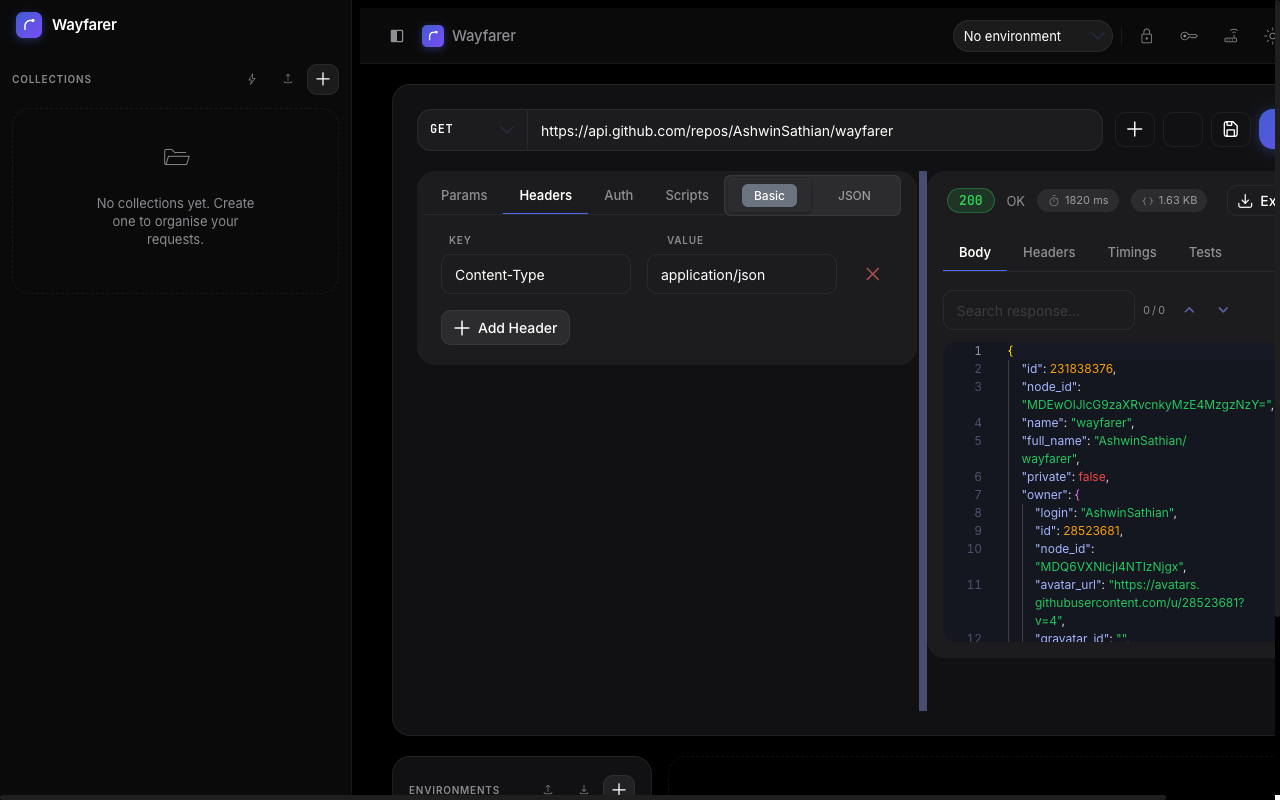
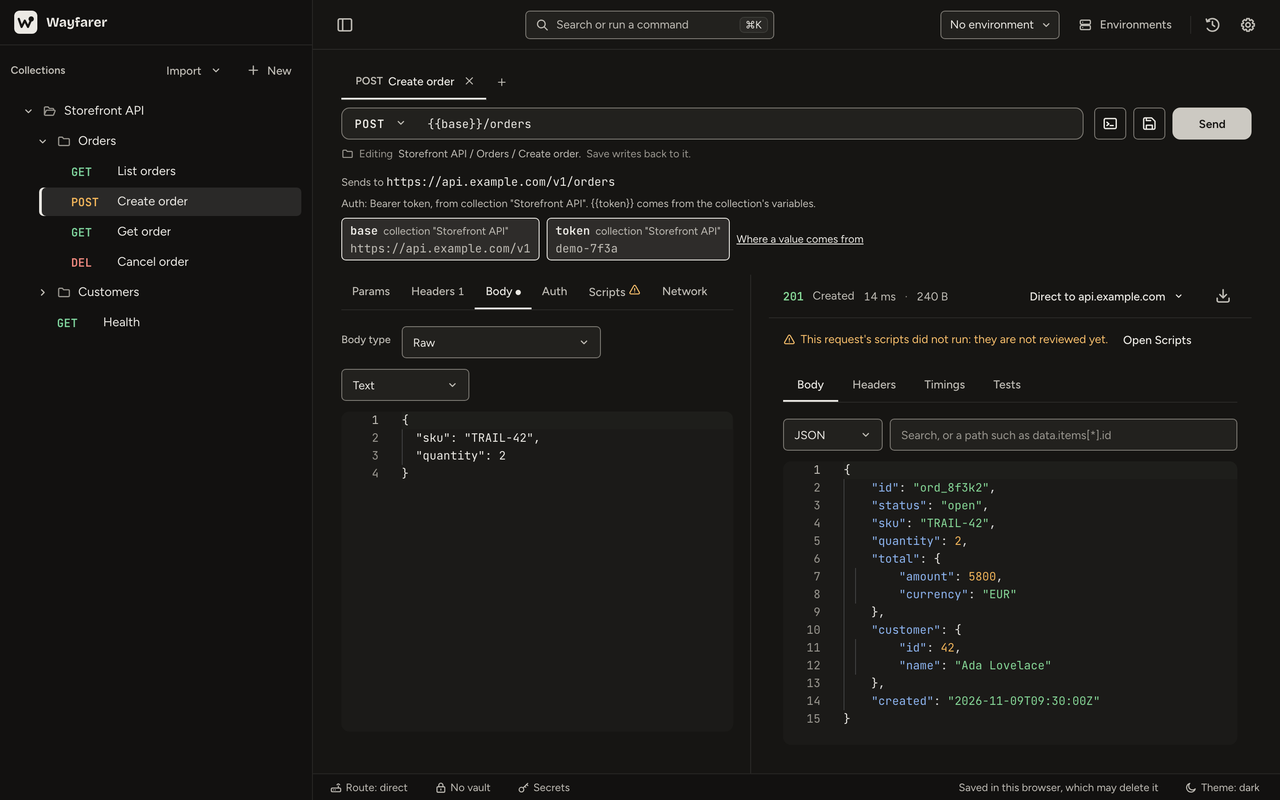
content: Wayfarer case study brought up to date, and a post for its public release
The entry said Wayfarer was an Angular, RxJS and IndexedDB app with a vault
and a renamed history. It is now version 3.4.0 with a claims ledger, a Local
Bridge, a CLI and a share link, so the description, facts, highlights, case
study and decision record are rewritten from the repository (the audit's
count is 71 of 75 closed, not 47 of 50; RxJS is not used; the decision
record is the reworded C-012). New hero screenshot from the live app, the
llms.txt entry and writing list, the home teaser, and the post
"What a browser tab won't let an API client do", linked from the project.

diff --git a/src/app/data/projects.ts b/src/app/data/projects.ts
@@ -258,64 +258,77 @@ export const PROJECTS: Project[] = [
     name: "Wayfarer",
     featured: true,
     category: "Developer tool",
-    tagline: "A local-first API client with no account and a client-side encrypted vault for secrets.",
+    tagline: "A local-first API client that opens in a browser tab: no account, an encrypted vault for secrets, and a test behind every claim it makes.",
     description: [
-      "Wayfarer is an API testing client (collections, environments, pre/post-request scripts, a response viewer) that runs entirely in the browser with no account and no backend. Everything lives in IndexedDB on your machine. Secrets get their own encrypted vault: PBKDF2-SHA-256 at 600,000 iterations wraps a random AES-GCM-256 key that is held in memory only, so only ciphertext ever touches storage. Pre-request and post-response scripts run in QuickJS, a JavaScript engine compiled to WebAssembly, in their own worker, so the browser never evaluates a script’s text.",
-      "It was renamed from API Sandbox to Wayfarer partway through its life. The app, the local-first storage model, and the MIT license stayed the same. There’s also an optional local-bridge, a small Node CLI for CORS/intranet relay when a request needs to reach somewhere the browser can’t. No update, acquisition, or pricing change can gate access to data you already own.",
+      "Wayfarer is an API client that opens in a browser tab. There is no install and no account. Collections, environments and history live in IndexedDB, and a request goes from the page to the host you typed. It imports Postman, Insomnia, OpenAPI, HAR and cURL, runs Postman-style scripts in QuickJS compiled to WebAssembly, does GraphQL, WebSockets and event streams, and runs a collection from the command line with the same engine (wayfarer-cli on npm). Secrets go in a vault: PBKDF2-SHA-256 at 600,000 iterations wraps a random AES-GCM-256 key that is held in memory only, so only ciphertext is stored and a reload locks it.",
+      "A page can’t do everything a desktop client can. CORS, forbidden headers like Cookie and Origin, mixed content and the missing timings of cross-origin responses all apply, so before a request goes the composer says what the browser will do to it. For what a page can’t do there is an optional Local Bridge (wayfarer-bridge on npm, no dependencies, listening on 127.0.0.1 only, paired with a one-time code) that sends the request from your machine. A collection can be shared as a link that carries it encrypted after the #, which a browser never sends to a server.",
+      "Every claim the project makes is a row in a public ledger, 94 of them at version 3.4.0, and each row names the tests that prove it. The repository’s first commit is from January 2020, an Angular 8 project called api-sandbox. It was renamed Wayfarer in July 2026 with the storage model and the MIT license unchanged, and a September 2026 audit of its documentation against its code produced 75 issues, 71 of them closed.",
     ],
-    stack: ["Angular 22", "IndexedDB", "QuickJS (WebAssembly)", "Monaco Editor", "RxJS"],
+    stack: ["Angular 22", "IndexedDB", "QuickJS (WebAssembly)", "Monaco Editor", "Astro 7", "Playwright"],
     facts: [
-      { label: "Persistence", value: "100% client-side: IndexedDB, no backend" },
+      { label: "Release", value: "3.4.0, November 2026, MIT. wayfarer-cli 2.2.0 and wayfarer-bridge 3.0.2 on npm" },
+      { label: "Persistence", value: "Client-side: IndexedDB, no backend of its own" },
       { label: "Secrets vault", value: "PBKDF2 (600k) wraps an AES-GCM-256 key, held in memory only" },
-      { label: "License", value: "MIT" },
+      { label: "Checks", value: "94 public claims, each tied to tests that run in Chromium, Firefox and WebKit" },
     ],
     highlights: [
       {
         title: "Client-side encrypted secrets vault",
         detail:
-          "PBKDF2-SHA-256 at 600,000 iterations wraps a random AES-GCM-256 key held only in memory. IndexedDB never sees anything but ciphertext.",
+          "PBKDF2-SHA-256 at 600,000 iterations wraps a random AES-GCM-256 key held only in memory, and a reload locks the vault. IndexedDB holds ciphertext. History, exports and shared files carry a mask where a secret was, and a reference to a vault secret is refused before it can reach the network.",
       },
       {
-        title: "Audit findings tracked as issues",
+        title: "Every claim has a test",
         detail:
-          "A September 2026 audit found gaps between the docs and the code. Each became an issue labeled audit-2026-09, and 47 of the 50 are closed. Scripts came back in 2.1.0 on a QuickJS sandbox that runs under the production Content-Security-Policy.",
+          "The ledger has 94 rows. Each names the documents that say it and the tests that prove it, and a check fails if a row has no test or names one that doesn’t exist. A claim test is never retried: one that passes on the second try hasn’t shown what it claims. Since 3.4.0 a skipped test no longer counts as one.",
+      },
+      {
+        title: "Says what the browser will do, before the send",
+        detail:
+          "A page can’t send a Cookie header, can’t read most response headers across origins and gets no phase timings unless the server sends Timing-Allow-Origin. The composer says what the browser will do to a request before it goes, and a network failure shows the real error. An early version’s service worker answered with a made-up 504.",
+      },
+      {
+        title: "A bridge for what a page can’t do",
+        detail:
+          "wayfarer-bridge relays a request from your machine, where CORS doesn’t apply. It listens on 127.0.0.1 only, relays only for an allowed origin that presents its token, and issues the token against a pairing code that works once. The route Auto sends from the page and offers the bridge only after the page got no answer. A response is never sent twice.",
+      },
+      {
+        title: "Audited, then reviewed again before the announcement",
+        detail:
+          "The September 2026 audit compared the documentation with the code and left 75 issues labeled audit-2026-09, among them scripts blocked by the production CSP and an “encrypted at rest” claim that overstated. 71 are closed, and scripts came back in 2.1.0 on a sandbox that runs under that CSP. In November a walkthrough of the live app as a first-time visitor and a review of the whole codebase went into 3.2.4 to 3.4.0: a Timings phase that showed 593 seconds for a one-second request, a phone told to run a terminal command, and a bridge timeout that cut requests off at 30 seconds.",
       },
       {
         title: "Nothing to rug-pull",
         detail:
-          "There is no account, hosted backend, or pricing tier that can change under you. HAR 1.2 export lets you take your data out in a standard format at any time.",
-      },
-      {
-        title: "Renamed from API Sandbox",
-        detail:
-          "API Sandbox became Wayfarer with the same storage model and license carried forward.",
+          "There is no account, hosted backend, or pricing tier that can change under you. Collections export as Postman v2.1 or Wayfarer files, an exchange as HAR 1.2, and the whole workspace backs up to one file.",
       },
     ],
     links: {
       live: "https://wayfarer.ashwinsathian.com",
       github: "https://github.com/AshwinSathian/wayfarer",
+      npm: "https://www.npmjs.com/package/wayfarer-cli",
     },
     media: {
       kind: "screenshot",
       src: "/projects/wayfarer/hero.png",
       width: 1280,
       height: 800,
-      alt: "Wayfarer’s request builder: headers editor on the left, a syntax-highlighted JSON response with status and timing on the right.",
+      alt: "Wayfarer with a Postman collection imported: the Storefront API folders on the left, a POST request built from the collection’s variables, and the JSON answer, 201 Created, on the right, with a notice that the imported scripts have not been reviewed yet.",
     },
     repo: { owner: "AshwinSathian", repo: "wayfarer" },
     decisionRecord: {
-      date: "2026-07",
-      before: "API Sandbox",
-      after: "Wayfarer",
-      why: "The new name fit the product better. The local-first storage model and the MIT license carried over, and the rename shipped as v1.0.0 under the new name.",
+      date: "2026-11",
+      before: "The ledger said the production page “loads with no script the app didn’t ship (0 CSP violations)”",
+      after: "It says the page runs no script but the app’s, and the CSP blocks any other, also one the host adds",
+      why: "The Cloudflare zone that serves the site injects a bot-detection script. The CSP blocks it, and a block is a violation, so “0 violations” was false, and the check for it was skipped against production with a warning, so nothing was testing the claim. The new wording says what holds, with a test that fails on any script fetched from another origin and on any violation that isn’t a blocked script. The strict zero-violations test stays, skipped on production until the zone stops injecting. Reworded in 3.2.5 on 9 November 2026.",
     },
     caseStudy: {
       problem:
-        "API clients that store your secrets ask you to trust their account system and their pricing page with the credentials you paste into them.",
+        "API clients that keep your secrets ask you to trust their account system and their pricing page with the credentials you paste into them. A client that runs in a browser tab needs neither, but the tab can’t do everything a desktop client can, and a client that doesn’t say so reports wrong things.",
       decision:
-        "Built Wayfarer to run entirely client-side: collections and requests live in IndexedDB, and secrets get their own vault where PBKDF2-SHA-256 (600,000 iterations) wraps an AES-GCM-256 key held only in memory, so IndexedDB never sees anything but ciphertext. Renamed from API Sandbox to Wayfarer mid-life, with the storage model and license carried forward, and shipped as v1.0.0 under the new name.",
+        "Built Wayfarer to run in the tab: collections live in IndexedDB, secrets go in a vault whose key exists only in memory, and the composer says what the browser will do to a request before it is sent. What a page can’t do goes to an optional Local Bridge on the user’s machine, paired by a code. Made every public claim a row in a ledger with the tests that prove it, run in three browser engines, after an audit of the project’s own documentation found where it said more than the code did.",
       outcome:
-        "There is no account or backend, so nothing can gate access to your own data. Scripts, switched off after the audit, run again in every build on a QuickJS sandbox.",
+        "Version 3.4.0 is current, with wayfarer-cli 2.2.0 and wayfarer-bridge 3.0.2 on npm. The ledger has 94 claims, and one of them was false while the host injected its own script, until it was reworded on 9 November 2026. Of the audit’s 75 issues, 71 are closed. What isn’t built is written down: no gRPC, no Git-backed collections, no live shared workspace.",
     },
   },
   {

diff --git a/src/app/data/home.ts b/src/app/data/home.ts
@@ -48,7 +48,7 @@ export const STORIES: Record<string, string> = {
   brnr:
     "Private messengers often still keep accounts or history on a server somewhere. BRNR keeps neither: a code starts a chat between two people, messages are end-to-end encrypted, and every one expires after 24 hours.",
   wayfarer:
-    "API clients ask you to trust their accounts with the secrets you paste in. Wayfarer runs in your browser tab with no account at all, and keeps secrets in a vault encrypted on your machine.",
+    "API clients ask you to trust their accounts with the secrets you paste in. Wayfarer opens in a browser tab with no account, keeps secrets in a vault encrypted on your machine, and says what the browser will do to a request before you send it.",
   "ngx-runtime-i18n":
     "Angular’s built-in i18n needs a separate build per language. This library swaps languages at runtime behind a signal, without breaking server rendering.",
   typester:

diff --git a/src/app/data/related.ts b/src/app/data/related.ts
@@ -7,6 +7,7 @@ export const PROJECT_POSTS: Record<string, string[]> = {
     "why-ngx-runtime-i18n-treats-the-active-language-as-a-signal-not-an-observable",
   ],
   "better-auth-mongoose": ["why-better-auths-mongodb-adapter-cant-populate-a-mongoose-ref"],
+  wayfarer: ["what-a-browser-tab-wont-let-an-api-client-do"],
   "humanize-writing-skill": [
     "the-ai-tells-moved-my-tool-for-avoiding-them-hadnt",
     "why-humanize-my-writing-tools-dont-work",

diff --git a/src/content/writing/what-a-browser-tab-wont-let-an-api-client-do.md b/src/content/writing/what-a-browser-tab-wont-let-an-api-client-do.md
@@ -1,0 +1,61 @@
+---
+title: "What a browser tab won't let an API client do"
+date: "2026-11-10"
+description: "Wayfarer is an API client that opens in a browser tab. What the tab takes away, how the app says so before you send, and two ways its own claims and checks turned out wrong."
+tags: ["api", "cors", "browser", "angular", "buildinpublic"]
+---
+
+Wayfarer is an API client that opens in a browser tab. There's nothing to install and no account to make. Collections, environments and history live in the browser's IndexedDB, and apart from loading the app, the only traffic is the request you compose, sent to the host you typed (plus the token request, if you use OAuth 2.0). I announced it on 10 November 2026. The current version is 3.4.0, and it's MIT-licensed.
+
+It also imports Postman, Insomnia, OpenAPI, HAR and cURL, runs Postman-style scripts in a QuickJS sandbox, keeps secrets in an encrypted vault, and does GraphQL, WebSockets and event streams. The README has the full list. This post is about the other side of living in a tab, which is what a page isn't allowed to do.
+
+## What the tab takes away
+
+A desktop client sends requests from a process that can do almost anything. A page sends them through the browser, and the browser decides what goes out:
+
+- A response from another origin reaches the page only if the server allows it (CORS), and a request that isn't "simple" is first asked about with a preflight.
+- `Cookie`, `Host`, `Origin`, `Connection` and the other forbidden header names are dropped, and a page can't read the browser's own cookies.
+- An `http://` address is blocked from an `https://` page.
+- From another origin, a page can read only the CORS-safelisted response headers and the ones the server exposes.
+- Phase timings (DNS, connect, first byte) exist only if the server sends `Timing-Allow-Origin`.
+- Redirects are followed without being shown, TLS can't be relaxed, and no proxy can be set.
+
+A desktop client is under none of these rules, so its documentation rarely mentions them. The nearest web peer does mention them - Hoppscotch's documentation says its web app needs nothing for an API that allows CORS, and otherwise an agent, an extension or a proxy (read on 4 November 2026; the [comparison page](https://wayfarer.ashwinsathian.com/compare/hoppscotch/) links it).
+
+## Say what the browser will do, before the send
+
+Before a request goes, Wayfarer's composer says what the browser will do to it (claim C-049). It lists the headers the browser will drop, says whether it will ask the server first and why, and warns when an `http://` address will be blocked. For a PUT with an Authorization header it reads: "The browser asks the server first, with an OPTIONS request, because of the method PUT, the header Authorization. The request is sent only if the server's answer allows it."
+
+After a failure the app can say less than you'd like, and it says that too: "The request got no response. The browser does not say why: the name may not resolve, the server may have refused the connection, or it does not allow requests from this page (CORS). Send it through the Local Bridge to see which." A page can't tell those cases apart, so the message doesn't pick one.
+
+An early version did the opposite. Its service worker answered a failed network request with a 504, which is a gateway timeout and blames a server for something the page couldn't attribute. That was finding F06 in the September audit. Claim C-010 now says a network failure shows the real error, never a made-up 504.
+
+## When the page can't, a program on your machine can
+
+The Local Bridge is `npx wayfarer-bridge`, a small Node program with no dependencies. It listens on 127.0.0.1, refuses a request whose Host isn't loopback, and relays only for an allowed origin that presents its token. The token comes from a pairing code the bridge prints when it starts. The code works once, and three wrong ones in a row lock pairing for 60 seconds, the right one included. Through the bridge, `Cookie`, `Host` and `Origin` go as written, redirects are followed hop by hop and listed, and an `http://` address works.
+
+The page keeps the say over where a request goes. The route called Auto sends from the page first. Only after the page got no answer does it consider the bridge, and then it goes at once for a GET, HEAD or OPTIONS or when a preflight was needed, and asks you first for anything else. A response is never sent twice (C-064).
+
+## The Timings tab was making up a number
+
+The browser's Resource Timing API gives a page the phases of a request: DNS, connect, TLS, time to first byte, content. For a response from another origin whose server sends no `Timing-Allow-Origin`, the browser sets those phase times to zero and keeps only when the request started and ended. Wayfarer's Timings tab computed the Content phase as the end of the response minus its start. With the start zeroed, that was the end minus zero, which is the time since the page loaded.
+
+On a fresh page, a request of 750 ms showed a Content phase of 1.9 seconds. Ten minutes after the page loaded, a request of about one second showed a Content phase of 593 seconds. Claim C-023 already said phase timings are withheld without the header, and its test checked four phases, not Content. A walkthrough of the live app as a first-time visitor found it on 9 November, the day before the announcement.
+
+Every phase goes through one function that subtracts two times - so the fix is a condition in it: a time of zero is withheld, not the start of the page. The new unit test failed first, for the reason reported, and C-023's end-to-end test now checks that Content isn't drawn. The fix shipped in 3.2.4.
+
+## Every claim has a test, and the ledger failed in two ways
+
+Wayfarer's [claims ledger](https://wayfarer.ashwinsathian.com/blog/the-claims-ledger/) has 94 rows. Each is a sentence the project says about itself, with the documents that say it and the tests that prove it. `npm run check:claims` fails if a row has no test or names one that doesn't exist, and the tests about the page run in Chromium, Firefox and WebKit before a release is deployed. A claim test is never retried, since one that passes on the second try hasn't shown what it claims.
+
+The first failure was a claim. C-012 said the production page loads with no script the app didn't ship, with zero CSP violations. The Cloudflare zone that serves the site injects a bot-detection script. The Content-Security-Policy blocks it, and a block counts as a violation, so the claim was false. The check for zero violations was skipped against production with a warning, so nothing was checking the claim. On 9 November, in 3.2.5, it was reworded to what holds: the page runs no script but the app's, and the policy blocks any other, including one the host adds. The new test fails on any script fetched from another origin or from `/cdn-cgi/`, and on any violation that isn't a blocked script. The strict zero-violations test is still there - skipped on production until the zone stops injecting. That's issue #75, and it's open.
+
+The second was in the check itself. A claim whose only test was marked skipped passed `check:claims`, and the README listed it as tested. Version 3.4.0 stopped counting skipped tests.
+
+## Where it stands
+
+Four of the September audit's 75 issues are still open. One is the Cloudflare script. One is WebKit sending a request that needs a preflight although the server refused it, when the service worker is in control. One is whether the bridge is reachable under Chrome's local-network rules and Safari's mixed-content rules, which hasn't been checked in all three browsers. The last is the deploy: it ships the tested files by hand, and a rollback hasn't been rehearsed.
+
+There's no gRPC, MQTT or Socket.IO, and no MCP server. Collections aren't files in a Git repository yet; that's next. A collection reaches a teammate as a file or an encrypted link, not as a workspace you edit together.
+
+The app is at [wayfarer.ashwinsathian.com](https://wayfarer.ashwinsathian.com/app/) and the code is at [github.com/AshwinSathian/wayfarer](https://github.com/AshwinSathian/wayfarer). If a request works in Postman and fails in the tab, open an issue with the composer's notes. Those are the cases the notes are there for.
